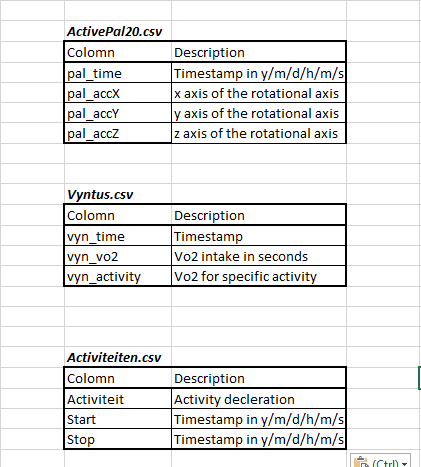
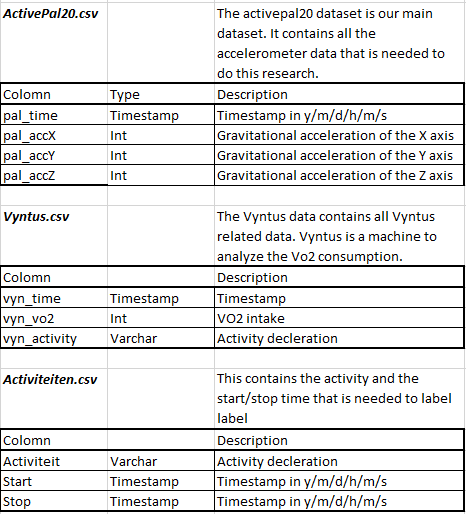
D

diff --git a/READMEV2.md b/READMEV2.md
@@ -235,12 +235,20 @@ One of the first steps into the project was to do examine the data to see what w
 One of the big problems we had when working on the ActivePal project was understanding how G-force works with our dataset. I had the job to examine our dataset and see if I could come up with visualiations that would make the group understand G-force better at the different activities. An example can be read below where I had to find out why g-force would act different at certain corrospondents which caused outliers. 
 
 ![Images](/Evidence/G-force.png) </br>
-In this picture you can see the g-force over time for every corrospondent in the group for the activity standing still. In the literature it's declared that whenever you stand still you have a g-force of 1.0G. So in this case we would expect the plot to show that.
+In this picture you can see the g-force over time for every corrospondent in the group for the activity standing still. In the literature it's declared that whenever you stand still you have a g-force of 1.0G. So in this case we would expect the plot to show that. But instead the following two things can be found in the shown plot. 
+- The accelerator is picking up movement at some of the corrospondents, you can see this by the fluxerating G-force.
+- There are two clear outliers at -1.0G (exactly the opposite of the rest of the group)
+- You can see that some of the corrospondents don't start at 1.0G but instead in the range of 1.0G to 1.3G.
+
+### Early hypothesis
+The small movements that are being picked up by the accelerator can be caused by corrospondents not standing completely still. They could be shuffling and/or doing other movements that being picked up. I think that the negative G-force can be explained by the accelerometer being upside down. If you put the accelerometer upside down this would change the axis and by doing this positive 1.0G would be come negative -1.0G. 
+
+I discussed with the group and CBS how some of the corrospondents are starting at a different value then 1.G (range of 1.0 to 1.3G) but so far this can't be explained.
 </details>
 
 <details> <summary>Data cleaning</summary>
 
-[More Examples](topics/data_preprocessing/data_cleaning.md)
+The dataset that we received from CBS was given in cleaned state. For us this meant that we really couldn't do much. 
 
 </details>
 
@@ -251,19 +259,34 @@ In this picture you can see the g-force over time for every corrospondent in the
 </details>
 
 <details> <summary>Data visualization</summary>
+Before we could make important decisions, like choosing a model, the features and other options. We needed to know what kind of data we were working with. For that reason I started to visualize our current data. The first thing I wanted to try was to see if there was a clear seperation between the different activity's. For that reason I made the following plot.  
 
-[More Examples](topics/data_preprocessing/data_visualization.md)
+![Images](/Evidence/datavisualization_standard_deviation_by_GROUP.png) </br>
+This plot shows the different activity's that we want to use for our models. The first plot shows the X-axis, the second shows the y-axis and the third shows the z-axis. The color indicate the activity. From this plot you can tell that if you use the standard deviation, that you would be able to seperate the different activity's. For that reason we decided that we should include the standard deviation into our models. In the next picture you can see the same plot but instead of groups, you will be able to see every corrospondent against the full group.
+
+
+![Images](/Evidence/datavisualization_standard_deviation_by_GROUP_VS_INDIVUAL.png) </br> 
+With this plot I wanted to see if I could find clear outliers in our dataset. By plotting all corrospondents against the full population it would be come clear who of the corrospondents are far off the standard deviation. An example of this can be seen in the right bottom corner of the plot. 
+
+Link to notebook: https://datascience.hhs.nl:8888/user/17113148/notebooks/activepal/code/src/all_steps_activity_data_analyse_Matt_v2.ipynb
+
+![Images](/Evidence/G-force.png) </br>
+In this visualization I wanted to show CBS some insights that I had found. The results were suprissing for CBS themself aswell and they were glad that we had found it. 
+
+
+Link to notebook: https://datascience.hhs.nl:8888/user/17113148/notebooks/activepal/code/src/Analyse%20and%20document%20%7BX%2C%20Y%2C%20Z%7D%20data.ipynb
 
 </details>
 
-<details> <summary>Data explanation</summary>
 
-<details> <summary>Table</summary>
+<details> <summary>Data explanation</summary>
+One of the first steps in the project was to get known with the data. As a group we decided that everybody should focus the first few days of receiving the data at exploring the data in such a matter that you will understand what we had received. For that reason I decided to make a tabel with every data colomn that we received and write down what exactly we received. Below you can see the table that I had made.
+
 
 ![Images](/Evidence/Data%20explanation.png)
 
-</details>
-In the table you can see all the features that we received. And my personal interpretation of it from the beginning of the project. 
+
+In the table you can see all the features that we received. And my personal interpretation of it from the beginning of the project. The activiteiten.csv has been used for all the models since we needed to label the activity's. The vyntus.csv has not been used since we didn't have a ground truth to fall back to. The activPal dataset was our main dataset that was being used for all the models. It was cleaned prior by CBS and we could dive into it straight away. 
 
 </details>
 
